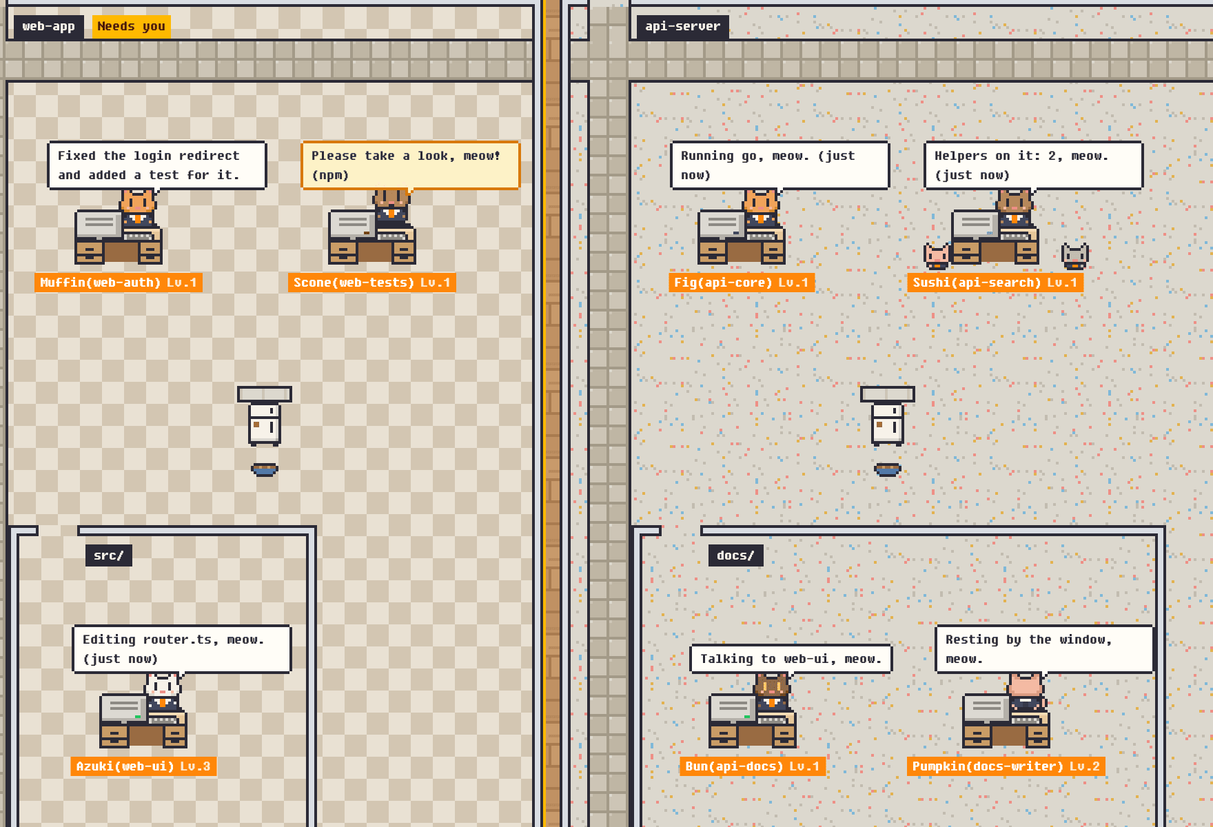
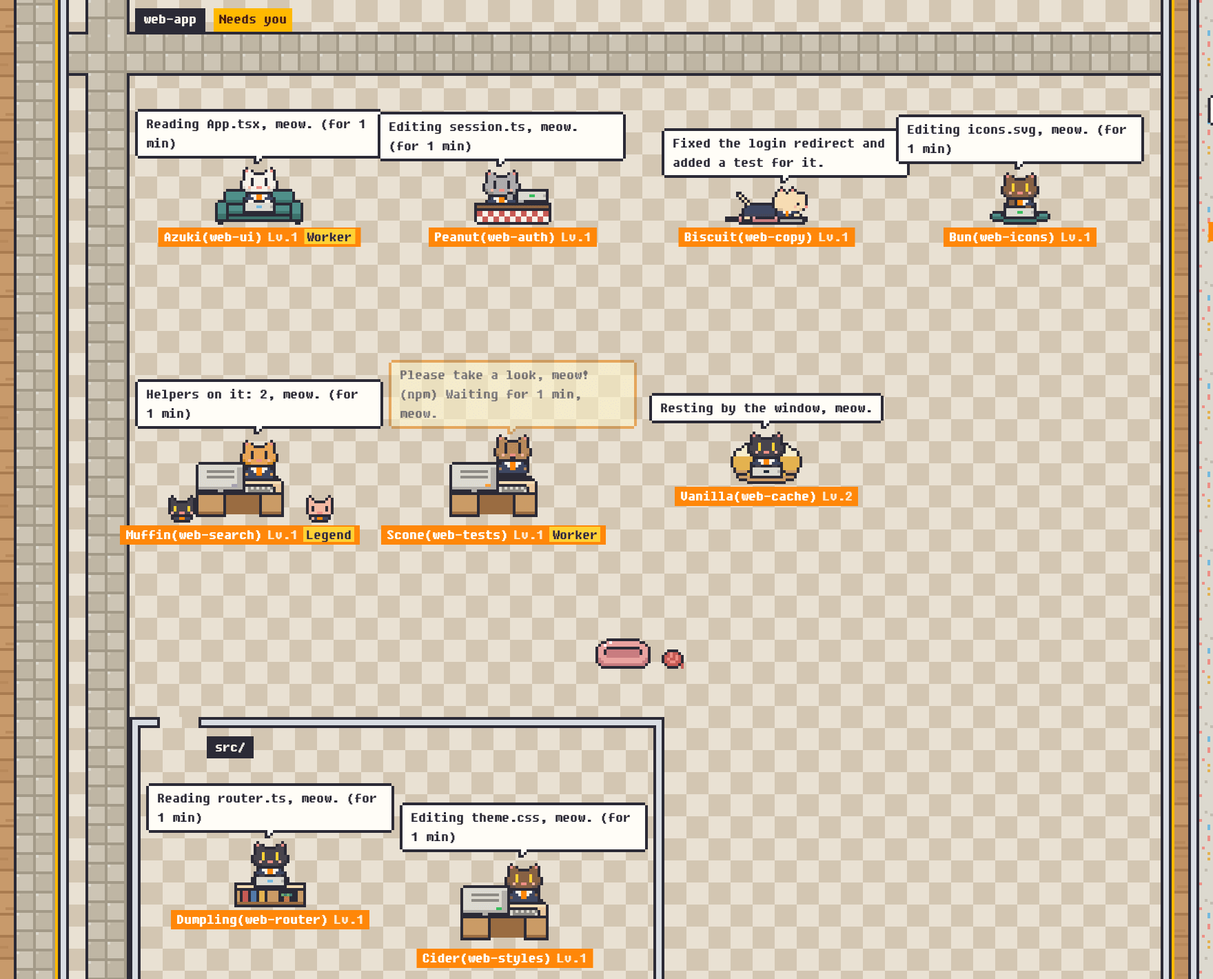
README: quick start first, free seats and the catalog in the features
Move Quick start up under the intro and drop the separate npx line above
it. The features table gains rows for free seats and the cat catalog, and
an Also list covers the paper, timelapse, seasons, sound, petting and
capture, and the hidden key. Every screenshot is reshot from a demo kttn
with generic names, so free seats show up.

diff --git a/README.ja.md b/README.ja.md
@@ -16,45 +16,17 @@
 <p align="center"><a href="README.md">English</a> · <a href="README.ko.md">한국어</a> · <b>日本語</b></p>
 
 <p align="center">
-  <img src="https://raw.githubusercontent.com/hgwk/kttn/main/docs/images/hero-ja.png" width="880" alt="kttn: 2つのリポジトリがエリア、フォルダーが部屋で、机の猫たちが読む・直す・コマンド実行・確認待ち・回答済み・居眠りをしていて、ある猫のそばにサブエージェントの子猫が2匹いる">
+  <img src="https://raw.githubusercontent.com/hgwk/kttn/main/docs/images/hero-ja.png" width="880" alt="kttn: リポジトリのエリアとフォルダーの部屋で、机と自由席(ソファ、こたつ、タブレット、座布団、ビーズクッション、窓辺)の猫たちが読む、直す、確認待ち、回答済み、居眠りをしていて、ある猫のそばにサブエージェントの子猫が2匹いる">
   <br><sub><a href="https://raw.githubusercontent.com/hgwk/kttn/main/docs/images/full-ja.png">画面全体を見る</a></sub>
 </p>
 
-```sh
-npx @hgwk/kttn
-```
-
-コマンドひとつで、kttn の名前を決め、Claude Code にフックをかけ、ログイン時に自動で起動し、ブラウザーで開きます。
-
 kttn は、あなたのコンピューターで動いている Claude Code セッションを、
 ピクセル猫として見せます。リポジトリごとにエリア、フォルダーごとに部屋、
-セッションごとに机の猫がひとつずつできます。猫はセッションに合わせて読み、直し、
+セッションごとに机か自由席の猫がひとつずつできます。猫はセッションに合わせて読み、直し、
 コマンドを動かし、あなたを待ち、居眠りし、退勤します。すべてはあなたの
 コンピューターの中にとどまります。Claude Code のフックが短いラベルだけを
 `127.0.0.1` の小さなサーバーに送り、画面はそのサーバーが出すページです。
 画面は日本語、英語、韓国語に対応しています。
-
-## 機能
-
-| | |
-| --- | --- |
-| <img src="https://raw.githubusercontent.com/hgwk/kttn/main/docs/images/feature-session.png" width="190" alt="吹き出しを出して机にいる猫"> | **セッションひとつに猫一匹。** 読む、直す、コマンドを動かす、考える、しばらく静かなら居眠り、セッションが終われば退勤。回答プレビューをオンにすると、仕事を終えた猫が何をしたか話します。 |
-| <img src="https://raw.githubusercontent.com/hgwk/kttn/main/docs/images/feature-map.png" width="340" alt="リポジトリとフォルダーが並ぶワールドマップ"> | **エリアはリポジトリ、部屋はフォルダー。** ワールドマップに猫の数と一緒に並び、地点を押すとその部屋へ移動します。 |
-| <img src="https://raw.githubusercontent.com/hgwk/kttn/main/docs/images/feature-kittens.png" width="190" alt="机のそばに子猫が2匹いる猫"> | **子猫はサブエージェント。** 仕事が終わるまで机のそばにいます。バックグラウンドで動くものも同じです。 |
-| <img src="https://raw.githubusercontent.com/hgwk/kttn/main/docs/images/feature-needs-you.png" width="185" alt="確認をお願いして点滅する吹き出し"> | **確認が必要。** 権限の確認を待つ猫は点滅し、その部屋とエリアにも印が付くので、どこからでも分かります。 |
-| <img src="https://raw.githubusercontent.com/hgwk/kttn/main/docs/images/feature-butler.png" width="130" alt="入り口にいる執事"> | **執事。** 猫を押すと執事が歩いていき、そのセッションのターミナルのタブを前に出します。吹き出しを押すと、そのセッションにメッセージを送れます。 |
-| 🔒 | **短いラベルだけ。** プロンプト、ファイルの内容、コマンドの引数、エラーの文言はセッションの外に出ません。[セッションから出ていくもの](#セッションから出ていくもの)を見てください。 |
-
-## 動いている様子
-
-<p align="center">
-  <img src="https://raw.githubusercontent.com/hgwk/kttn/main/docs/images/demo.gif" width="880" alt="デモアニメーション: 新しい猫が入り口から入ってきて、猫たちがコマンド実行と考え中を行き来し、子猫が1匹去り、仕事を終えた猫が結果を話す">
-</p>
-
-<p align="center">
-  <img src="https://raw.githubusercontent.com/hgwk/kttn/main/docs/images/hero-en.png" width="440" alt="英語の画面">
-  <img src="https://raw.githubusercontent.com/hgwk/kttn/main/docs/images/hero-ko.png" width="440" alt="韓国語の画面">
-</p>
 
 ## クイックスタート
 
@@ -68,6 +40,39 @@ npx @hgwk/kttn
 フックと自動起動だけを新しくします。`kttn uninstall` でフックと自動起動を外せます。
 
 kttn は macOS と Linux(arm64、x86-64)で動きます。**Windows には対応していません。**
+
+## 機能
+
+| | |
+| --- | --- |
+| <img src="https://raw.githubusercontent.com/hgwk/kttn/main/docs/images/feature-session.png" width="190" alt="吹き出しを出して机にいる猫"> | **セッションひとつに猫一匹。** 読む、直す、コマンドを動かす、考える、しばらく静かなら居眠り、セッションが終われば退勤。回答プレビューをオンにすると、仕事を終えた猫が何をしたか話します。 |
+| <img src="https://raw.githubusercontent.com/hgwk/kttn/main/docs/images/feature-seats.png" width="438" alt="自由席の猫6匹: ソファ、こたつ、うつぶせでタブレット、座布団でノートパソコン、ビーズクッション、窓辺"> | **机と自由席。** 机のほかに、座布団でノートパソコン、うつぶせでタブレット、ビーズクッション、ソファ、窓辺、こたつでも働きます。猫ごとに席が決まっています。 |
+| <img src="https://raw.githubusercontent.com/hgwk/kttn/main/docs/images/feature-map.png" width="340" alt="リポジトリとフォルダーが並ぶワールドマップ"> | **エリアはリポジトリ、部屋はフォルダー。** ワールドマップに猫の数と一緒に並び、地点を押すとその部屋へ移動します。 |
+| <img src="https://raw.githubusercontent.com/hgwk/kttn/main/docs/images/feature-kittens.png" width="190" alt="机のそばに子猫が2匹いる猫"> | **子猫はサブエージェント。** 仕事が終わるまで机のそばにいます。バックグラウンドで動くものも同じです。 |
+| <img src="https://raw.githubusercontent.com/hgwk/kttn/main/docs/images/feature-needs-you.png" width="185" alt="確認をお願いして点滅する吹き出し"> | **確認が必要。** 権限の確認を待つ猫は点滅し、その部屋とエリアにも印が付くので、どこからでも分かります。 |
+| <img src="https://raw.githubusercontent.com/hgwk/kttn/main/docs/images/feature-butler.png" width="130" alt="入り口にいる執事"> | **執事。** 猫を押すと執事が歩いていき、そのセッションのターミナルのタブを前に出します。吹き出しを押すと、そのセッションにメッセージを送れます。 |
+| <img src="https://raw.githubusercontent.com/hgwk/kttn/main/docs/images/feature-catalog.png" width="248" alt="図鑑のカード2枚: 退勤した猫と、伝説、夜ふかし、古株の称号を持つ Lv.30 の猫"> | **猫図鑑。** 退勤した猫まで、出会った猫すべてをレベル、称号、ツール数、同時勤務の最高記録と一緒に見せます。[残すもの](#セッションから出ていくもの)を見てください。 |
+| 🔒 | **短いラベルだけ。** プロンプト、ファイルの内容、コマンドの引数、エラーの文言はセッションの外に出ません。[セッションから出ていくもの](#セッションから出ていくもの)を見てください。 |
+
+**そのほか**
+
+- **一日の新聞。** その日の猫の名前、ツール数と失敗数、いちばん長い昼寝、猫の絵を PNG で保存。
+- **一日のタイムラプス(初期設定はオフ)。** タブが見えているあいだ 10 分ごとに自動で撮影、再生、WebM で保存。
+- **季節。** 12 月の雪とツリー、夜明け前の暗めの照明。
+- **8 ビット効果音(初期設定はオフ)。**
+- **なでなでと PNG 保存。** 執事を猫のそばに立たせてスペースでなでる、キャプチャで kttn 全体を PNG で保存。
+- **隠しキー。** あるキーの順番を押すと、猫たちが何かをします。
+
+## 動いている様子
+
+<p align="center">
+  <img src="https://raw.githubusercontent.com/hgwk/kttn/main/docs/images/demo.gif" width="880" alt="デモアニメーション: 新しい猫が入り口から入ってきて、猫たちがコマンド実行と考え中を行き来し、子猫が1匹去り、仕事を終えた猫が結果を話す">
+</p>
+
+<p align="center">
+  <img src="https://raw.githubusercontent.com/hgwk/kttn/main/docs/images/hero-en.png" width="440" alt="英語の画面">
+  <img src="https://raw.githubusercontent.com/hgwk/kttn/main/docs/images/hero-ko.png" width="440" alt="韓国語の画面">
+</p>
 
 ## セッションから出ていくもの
 

diff --git a/README.ko.md b/README.ko.md
@@ -16,44 +16,16 @@
 <p align="center"><a href="README.md">English</a> · <b>한국어</b> · <a href="README.ja.md">日本語</a></p>
 
 <p align="center">
-  <img src="https://raw.githubusercontent.com/hgwk/kttn/main/docs/images/hero-ko.png" width="880" alt="kttn: 저장소 두 곳이 구역, 폴더가 방이고, 책상의 고양이들이 읽기·고치기·명령 실행·확인 대기·답변 완료·졸기를 하고 있으며, 한 고양이 곁에 하위 에이전트 새끼 고양이 둘이 서 있다">
+  <img src="https://raw.githubusercontent.com/hgwk/kttn/main/docs/images/hero-ko.png" width="880" alt="kttn: 저장소의 구역과 폴더의 방에서 책상과 자유 자리(소파, 고타쓰, 태블릿, 방석, 빈백, 창턱)의 고양이들이 읽기, 고치기, 확인 대기, 답변 완료, 졸기를 하고 있고, 한 고양이 곁에 하위 에이전트 새끼 고양이 둘이 서 있다">
   <br><sub><a href="https://raw.githubusercontent.com/hgwk/kttn/main/docs/images/full-ko.png">전체 화면 보기</a></sub>
 </p>
 
-```sh
-npx @hgwk/kttn
-```
-
-명령 하나로 kttn 이름을 정하고, Claude Code에 훅을 걸고, 로그인할 때 자동으로 띄우고, 브라우저로 엽니다.
-
 kttn은 내 컴퓨터에서 돌고 있는 Claude Code 세션을 픽셀 고양이로
-보여 줍니다. 저장소마다 구역이, 폴더마다 방이, 세션마다 책상에 앉은 고양이가
-하나씩 생깁니다. 고양이는 세션을 따라 읽고, 고치고, 명령을 돌리고, 사람을
+보여 줍니다. 저장소마다 구역이, 폴더마다 방이, 세션마다 책상이나 자유 자리에 앉은
+고양이가 하나씩 생깁니다. 고양이는 세션을 따라 읽고, 고치고, 명령을 돌리고, 사람을
 기다리고, 졸고, 퇴근합니다. 모든 것이 내 컴퓨터 안에 머뭅니다. Claude Code 훅이
 짧은 표시만 `127.0.0.1`의 작은 서버로 보내고, 화면은 그 서버가 내주는 페이지입니다.
 화면은 한국어, 영어, 일본어를 지원합니다.
-
-## 기능
-
-| | |
-| --- | --- |
-| <img src="https://raw.githubusercontent.com/hgwk/kttn/main/docs/images/feature-session.png" width="190" alt="말풍선을 띄운 채 책상에 앉은 고양이"> | **세션 하나에 고양이 하나.** 읽고, 고치고, 명령을 돌리고, 생각하고, 한동안 조용하면 졸고, 세션이 끝나면 퇴근합니다. 답변 미리보기를 켜면 일을 마친 고양이가 무엇을 했는지 말합니다. |
-| <img src="https://raw.githubusercontent.com/hgwk/kttn/main/docs/images/feature-map.png" width="340" alt="저장소와 폴더가 적힌 월드맵"> | **구역은 저장소, 방은 폴더.** 월드맵에 냥이 수와 함께 나오고, 지점을 누르면 그 방으로 갑니다. |
-| <img src="https://raw.githubusercontent.com/hgwk/kttn/main/docs/images/feature-kittens.png" width="190" alt="책상 옆에 새끼 고양이 둘이 서 있는 고양이"> | **새끼 고양이는 하위 에이전트.** 일이 끝날 때까지 책상 옆에 서 있습니다. 백그라운드로 띄운 것도 마찬가지입니다. |
-| <img src="https://raw.githubusercontent.com/hgwk/kttn/main/docs/images/feature-needs-you.png" width="185" alt="확인을 부탁하며 깜빡이는 말풍선"> | **확인 필요.** 권한 확인을 기다리는 고양이는 깜빡이고, 그 방과 구역도 함께 표시돼 어디서든 보입니다. |
-| <img src="https://raw.githubusercontent.com/hgwk/kttn/main/docs/images/feature-butler.png" width="130" alt="문 앞의 집사"> | **집사.** 고양이를 누르면 집사가 걸어가 그 세션의 터미널 탭을 앞으로 띄웁니다. 말풍선을 누르면 그 세션에 메시지를 보냅니다. |
-| 🔒 | **짧은 표시만.** 프롬프트, 파일 내용, 명령 인자, 오류 문구는 세션 밖으로 나가지 않습니다. [세션에서 나가는 것](#세션에서-나가는-것)을 보세요. |
-
-## 움직이는 모습
-
-<p align="center">
-  <img src="https://raw.githubusercontent.com/hgwk/kttn/main/docs/images/demo.gif" width="880" alt="데모 애니메이션: 새 고양이가 문으로 들어오고, 고양이들이 명령 실행과 생각 중을 오가고, 새끼 고양이 하나가 떠나고, 일을 마친 고양이가 결과를 말한다">
-</p>
-
-<p align="center">
-  <img src="https://raw.githubusercontent.com/hgwk/kttn/main/docs/images/hero-en.png" width="440" alt="영어 화면">
-  <img src="https://raw.githubusercontent.com/hgwk/kttn/main/docs/images/hero-ja.png" width="440" alt="일본어 화면">
-</p>
 
 ## 빠른 시작
 
@@ -67,6 +39,39 @@ kttn이 뜨도록 등록하고(macOS는 LaunchAgent, Linux는 systemd 사용자 
 새로 고칩니다. `kttn uninstall`은 훅과 자동 시작을 다시 뺍니다.
 
 kttn은 macOS와 Linux(arm64, x86-64)에서 돕니다. **Windows는 지원하지 않습니다.**
+
+## 기능
+
+| | |
+| --- | --- |
+| <img src="https://raw.githubusercontent.com/hgwk/kttn/main/docs/images/feature-session.png" width="190" alt="말풍선을 띄운 채 책상에 앉은 고양이"> | **세션 하나에 고양이 하나.** 읽고, 고치고, 명령을 돌리고, 생각하고, 한동안 조용하면 졸고, 세션이 끝나면 퇴근합니다. 답변 미리보기를 켜면 일을 마친 고양이가 무엇을 했는지 말합니다. |
+| <img src="https://raw.githubusercontent.com/hgwk/kttn/main/docs/images/feature-seats.png" width="438" alt="자유 자리의 고양이 여섯: 소파, 고타쓰, 엎드려 태블릿, 방석 노트북, 빈백, 창턱"> | **책상과 자유 자리.** 책상 말고도 방석 노트북, 엎드려 태블릿, 빈백, 소파, 창턱, 고타쓰에서 일합니다. 고양이마다 자리가 정해져 있습니다. |
+| <img src="https://raw.githubusercontent.com/hgwk/kttn/main/docs/images/feature-map.png" width="340" alt="저장소와 폴더가 적힌 월드맵"> | **구역은 저장소, 방은 폴더.** 월드맵에 냥이 수와 함께 나오고, 지점을 누르면 그 방으로 갑니다. |
+| <img src="https://raw.githubusercontent.com/hgwk/kttn/main/docs/images/feature-kittens.png" width="190" alt="책상 옆에 새끼 고양이 둘이 서 있는 고양이"> | **새끼 고양이는 하위 에이전트.** 일이 끝날 때까지 책상 옆에 서 있습니다. 백그라운드로 띄운 것도 마찬가지입니다. |
+| <img src="https://raw.githubusercontent.com/hgwk/kttn/main/docs/images/feature-needs-you.png" width="185" alt="확인을 부탁하며 깜빡이는 말풍선"> | **확인 필요.** 권한 확인을 기다리는 고양이는 깜빡이고, 그 방과 구역도 함께 표시돼 어디서든 보입니다. |
+| <img src="https://raw.githubusercontent.com/hgwk/kttn/main/docs/images/feature-butler.png" width="130" alt="문 앞의 집사"> | **집사.** 고양이를 누르면 집사가 걸어가 그 세션의 터미널 탭을 앞으로 띄웁니다. 말풍선을 누르면 그 세션에 메시지를 보냅니다. |
+| <img src="https://raw.githubusercontent.com/hgwk/kttn/main/docs/images/feature-catalog.png" width="248" alt="도감 카드 둘: 퇴근한 고양이와 전설, 올빼미, 고참 칭호를 단 Lv.30 고양이"> | **고양이 도감.** 퇴근한 고양이까지 만난 고양이 모두를 레벨, 칭호, 도구 수, 동시 근무 최고 기록과 함께 보여 줍니다. [남기는 것](#세션에서-나가는-것)을 보세요. |
+| 🔒 | **짧은 표시만.** 프롬프트, 파일 내용, 명령 인자, 오류 문구는 세션 밖으로 나가지 않습니다. [세션에서 나가는 것](#세션에서-나가는-것)을 보세요. |
+
+**그 밖에**
+
+- **하루 신문.** 그날의 고양이 이름, 도구 수와 실패 수, 가장 긴 낮잠, 고양이 그림을 PNG로 저장.
+- **하루 타임랩스(기본 꺼짐).** 탭이 보이는 동안 10분마다 자동으로 찍고, 재생하고, WebM으로 저장.
+- **계절.** 12월의 눈과 트리, 새벽의 어두운 조명.
+- **8비트 효과음(기본 꺼짐).**
+- **쓰다듬기와 PNG 저장.** 집사를 고양이 곁에 세우고 스페이스로 쓰다듬기, 캡처로 kttn 전체를 PNG로 저장.
+- **숨은 키.** 어떤 키 순서를 누르면 고양이들이 무언가를 합니다.
+
+## 움직이는 모습
+
+<p align="center">
+  <img src="https://raw.githubusercontent.com/hgwk/kttn/main/docs/images/demo.gif" width="880" alt="데모 애니메이션: 새 고양이가 문으로 들어오고, 고양이들이 명령 실행과 생각 중을 오가고, 새끼 고양이 하나가 떠나고, 일을 마친 고양이가 결과를 말한다">
+</p>
+
+<p align="center">
+  <img src="https://raw.githubusercontent.com/hgwk/kttn/main/docs/images/hero-en.png" width="440" alt="영어 화면">
+  <img src="https://raw.githubusercontent.com/hgwk/kttn/main/docs/images/hero-ja.png" width="440" alt="일본어 화면">
+</p>
 
 ## 세션에서 나가는 것
 

diff --git a/README.md b/README.md
@@ -16,44 +16,16 @@
 <p align="center"><b>English</b> · <a href="README.ko.md">한국어</a> · <a href="README.ja.md">日本語</a></p>
 
 <p align="center">
-  <img src="https://raw.githubusercontent.com/hgwk/kttn/main/docs/images/hero-en.png" width="880" alt="kttn: two repositories as areas, folders as rooms, cats at desks reading, editing, running commands, waiting for a permission answer, showing a finished result, napping, and a cat with two subagent kittens">
+  <img src="https://raw.githubusercontent.com/hgwk/kttn/main/docs/images/hero-en.png" width="880" alt="kttn: a repository's area and a folder's room, with cats at desks and on free seats (a sofa, a kotatsu, a tablet, a cushion, a bean bag, a window sill) reading, editing, waiting for a permission answer, showing a finished result and dozing, and a cat with two subagent kittens">
   <br><sub><a href="https://raw.githubusercontent.com/hgwk/kttn/main/docs/images/full-en.png">Full view</a></sub>
 </p>
 
-```sh
-npx @hgwk/kttn
-```
-
-One command: name your kttn, hook Claude Code, start at login, open it in the browser.
-
 kttn shows the Claude Code sessions running on your computer as pixel cats.
-Each repository gets an area, each folder a room, each session a cat at
-a desk. A cat reads, edits, runs commands, waits for you, naps and goes home as
-its session does. Everything stays on your computer: a Claude Code hook sends
+Each repository gets an area, each folder a room, each session a cat at a
+desk or on a free seat. A cat reads, edits, runs commands, waits for you, naps
+and goes home as its session does. Everything stays on your computer: a Claude Code hook sends
 short labels to a small server on `127.0.0.1`, and the screen is a page that
 server serves. The screen speaks English, Korean and Japanese.
-
-## Features
-
-| | |
-| --- | --- |
-| <img src="https://raw.githubusercontent.com/hgwk/kttn/main/docs/images/feature-session.png" width="190" alt="A cat at its desk with a speech bubble"> | **One cat per session.** It reads, edits, runs commands, thinks, naps after a quiet spell and goes home when the session ends. With answer preview on, a finished cat says what it did. |
-| <img src="https://raw.githubusercontent.com/hgwk/kttn/main/docs/images/feature-map.png" width="340" alt="The world map listing repositories and folders"> | **Areas are repositories, rooms are folders.** The world map lists them with how many cats are in each; click a spot to jump to that room. |
-| <img src="https://raw.githubusercontent.com/hgwk/kttn/main/docs/images/feature-kittens.png" width="190" alt="A cat with two kittens beside its desk"> | **Kittens are subagents.** They stand by the desk until they finish, background ones included. |
-| <img src="https://raw.githubusercontent.com/hgwk/kttn/main/docs/images/feature-needs-you.png" width="185" alt="A blinking speech bubble asking for a look"> | **Needs you.** A cat waiting on a permission prompt blinks, and its room and area light up so you see it from anywhere. |
-| <img src="https://raw.githubusercontent.com/hgwk/kttn/main/docs/images/feature-butler.png" width="130" alt="The butler at the door"> | **The butler.** Click a cat and the butler walks over and brings its terminal tab to the front; click a speech bubble to type a message into that session. |
-| 🔒 | **Short labels only.** Prompts, file contents, command arguments and error texts never leave the session. See [what leaves a session](#what-leaves-a-session). |
-
-## How it looks
-
-<p align="center">
-  <img src="https://raw.githubusercontent.com/hgwk/kttn/main/docs/images/demo.gif" width="880" alt="Animated demo: a new cat walks in from the door, cats switch between running and thinking, a kitten leaves, and a finished cat shows its result">
-</p>
-
-<p align="center">
-  <img src="https://raw.githubusercontent.com/hgwk/kttn/main/docs/images/hero-ko.png" width="440" alt="kttn in Korean">
-  <img src="https://raw.githubusercontent.com/hgwk/kttn/main/docs/images/hero-ja.png" width="440" alt="kttn in Japanese">
-</p>
 
 ## Quick start
 
@@ -68,6 +40,39 @@ settings and refreshes the hooks and the login service. `kttn uninstall`
 takes the hooks and the login service out again.
 
 kttn runs on macOS and Linux (arm64 and x86-64). **Windows is not supported.**
+
+## Features
+
+| | |
+| --- | --- |
+| <img src="https://raw.githubusercontent.com/hgwk/kttn/main/docs/images/feature-session.png" width="190" alt="A cat at its desk with a speech bubble"> | **One cat per session.** It reads, edits, runs commands, thinks, naps after a quiet spell and goes home when the session ends. With answer preview on, a finished cat says what it did. |
+| <img src="https://raw.githubusercontent.com/hgwk/kttn/main/docs/images/feature-seats.png" width="438" alt="Six cats on free seats: a sofa, a kotatsu, lying down with a tablet, a cushion with a laptop, a bean bag and a window sill"> | **Desks and free seats.** Besides desks, cats work from a cushion with a laptop, lying down with a tablet, a bean bag, the sofa, the window sill or a kotatsu. Each cat keeps its seat. |
+| <img src="https://raw.githubusercontent.com/hgwk/kttn/main/docs/images/feature-map.png" width="340" alt="The world map listing repositories and folders"> | **Areas are repositories, rooms are folders.** The world map lists them with how many cats are in each; click a spot to jump to that room. |
+| <img src="https://raw.githubusercontent.com/hgwk/kttn/main/docs/images/feature-kittens.png" width="190" alt="A cat with two kittens beside its desk"> | **Kittens are subagents.** They stand by the desk until they finish, background ones included. |
+| <img src="https://raw.githubusercontent.com/hgwk/kttn/main/docs/images/feature-needs-you.png" width="185" alt="A blinking speech bubble asking for a look"> | **Needs you.** A cat waiting on a permission prompt blinks, and its room and area light up so you see it from anywhere. |
+| <img src="https://raw.githubusercontent.com/hgwk/kttn/main/docs/images/feature-butler.png" width="130" alt="The butler at the door"> | **The butler.** Click a cat and the butler walks over and brings its terminal tab to the front; click a speech bubble to type a message into that session. |
+| <img src="https://raw.githubusercontent.com/hgwk/kttn/main/docs/images/feature-catalog.png" width="248" alt="Two catalog cards: a cat that went home and a Lv.30 cat at work with Legend, Night owl and Old hand titles"> | **Cat catalog.** Every cat kttn has met, including ones that went home, with its level, titles, tool count and the most cats at once. [What it keeps](#what-leaves-a-session). |
+| 🔒 | **Short labels only.** Prompts, file contents, command arguments and error texts never leave the session. See [what leaves a session](#what-leaves-a-session). |
+
+**Also**
+
+- **Daily paper.** The day's cat names, tool and failure counts, longest nap and a picture of the cats, saved as a PNG.
+- **Daily timelapse (off by default).** A shot every 10 minutes while the tab is visible, played back and saved as WebM.
+- **Seasons.** Snow and a tree in December, dimmer lights before dawn.
+- **8-bit sound effects (off by default).**
+- **Petting and capture.** Walk the butler up to a cat and press Space to pet it; Capture saves the whole kttn as a PNG.
+- **A hidden key.** Some key sequence makes the cats do something.
+
+## How it looks
+
+<p align="center">
+  <img src="https://raw.githubusercontent.com/hgwk/kttn/main/docs/images/demo.gif" width="880" alt="Animated demo: a new cat walks in from the door, cats switch between running and thinking, a kitten leaves, and a finished cat shows its result">
+</p>
+
+<p align="center">
+  <img src="https://raw.githubusercontent.com/hgwk/kttn/main/docs/images/hero-ko.png" width="440" alt="kttn in Korean">
+  <img src="https://raw.githubusercontent.com/hgwk/kttn/main/docs/images/hero-ja.png" width="440" alt="kttn in Japanese">
+</p>
 
 ## What leaves a session
 
